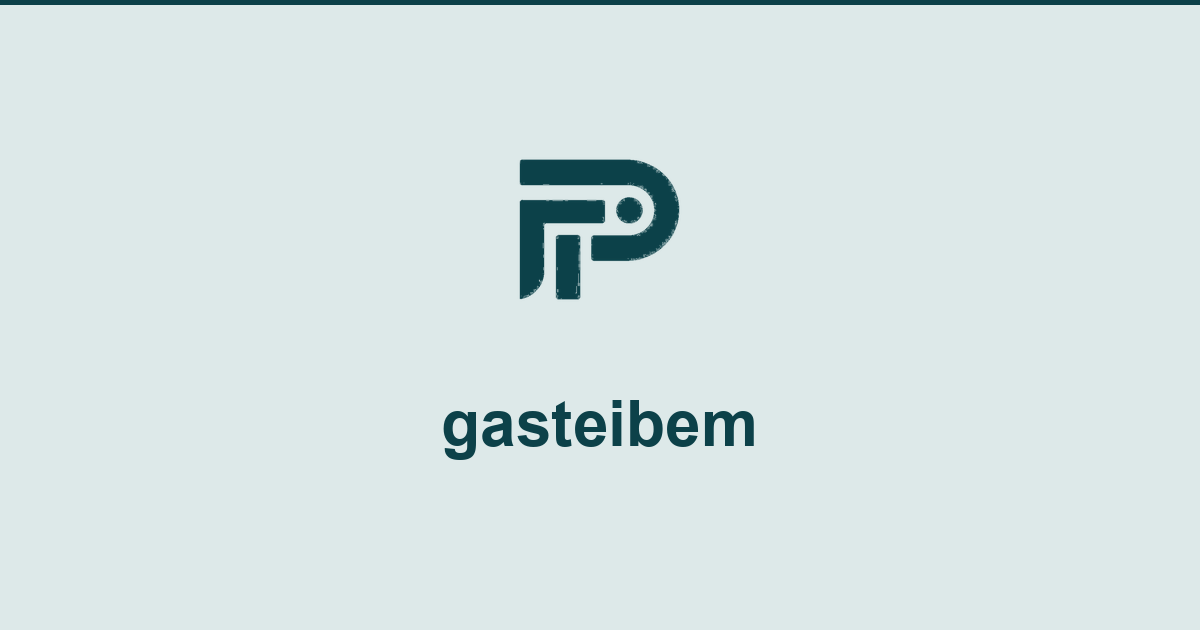
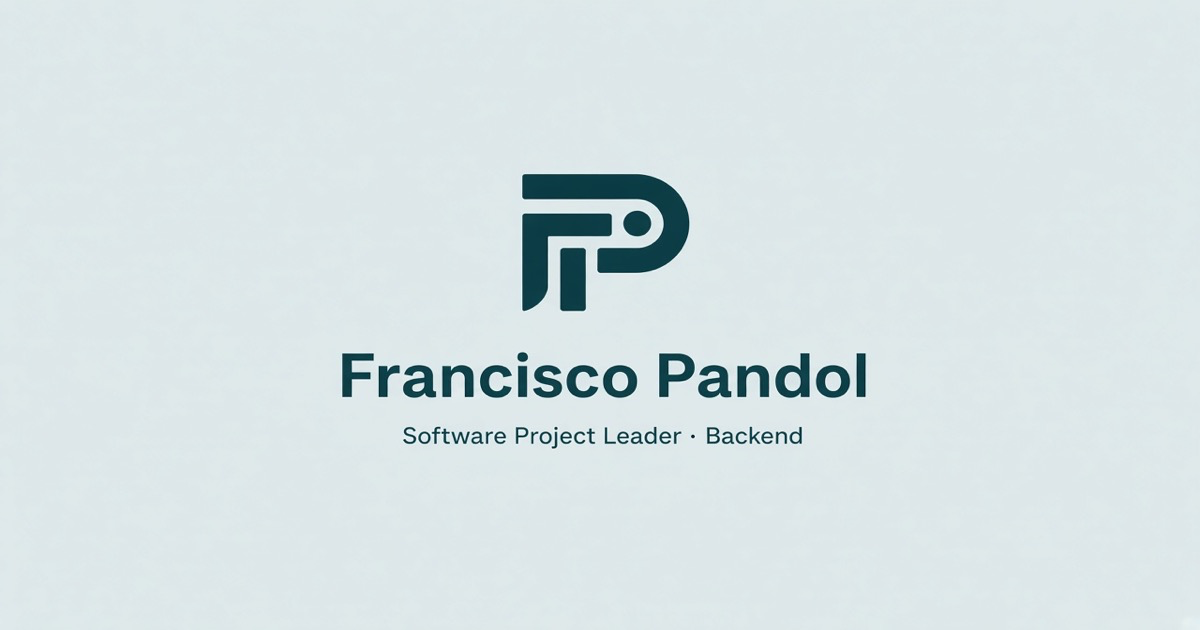
fix(seo): replace gasteibem OG image with Francisco Pandol branding
WhatsApp and other link previews were showing the old monogram card. Ship a new 1200×630 image and absolute og/twitter image URLs so shares refresh correctly.

Changed region(s): [[0.2775, 0.5429, 0.74, 0.754], [0.4317, 0.2413, 0.5858, 0.5127], [0.0, 0.0, 1.0, 0.0302]]

diff --git a/index.html b/index.html
@@ -17,9 +17,14 @@
       property="og:description"
       content="Francisco Pandol — Software Project Leader & Backend Tech Lead. 10+ years, Python/Django/FastAPI, Mercado Libre ecosystem, fintech, high concurrency, system design."
     />
-    <meta property="og:image" content="/og-image.png" />
+    <meta property="og:image" content="https://franpandol.com/og-franpandol.png" />
+    <meta property="og:image:type" content="image/png" />
+    <meta property="og:image:width" content="1200" />
+    <meta property="og:image:height" content="630" />
+    <meta property="og:url" content="https://franpandol.com/" />
     <meta property="og:type" content="website" />
     <meta name="twitter:card" content="summary_large_image" />
+    <meta name="twitter:image" content="https://franpandol.com/og-franpandol.png" />
     <link rel="manifest" href="/manifest.json" />
     <link rel="alternate" type="text/markdown" href="/site.md" title="Francisco Pandol — Markdown profile" />
     <link rel="preconnect" href="https://fonts.googleapis.com" />

diff --git a/monogram-logo/README.md b/monogram-logo/README.md
@@ -1,6 +1,6 @@
 # Monogram logo assets
 
-Geometric teal monogram mark for gasteibem.
+Geometric teal monogram mark for Francisco Pandol / franpandol.com.
 
 ## Files
 
